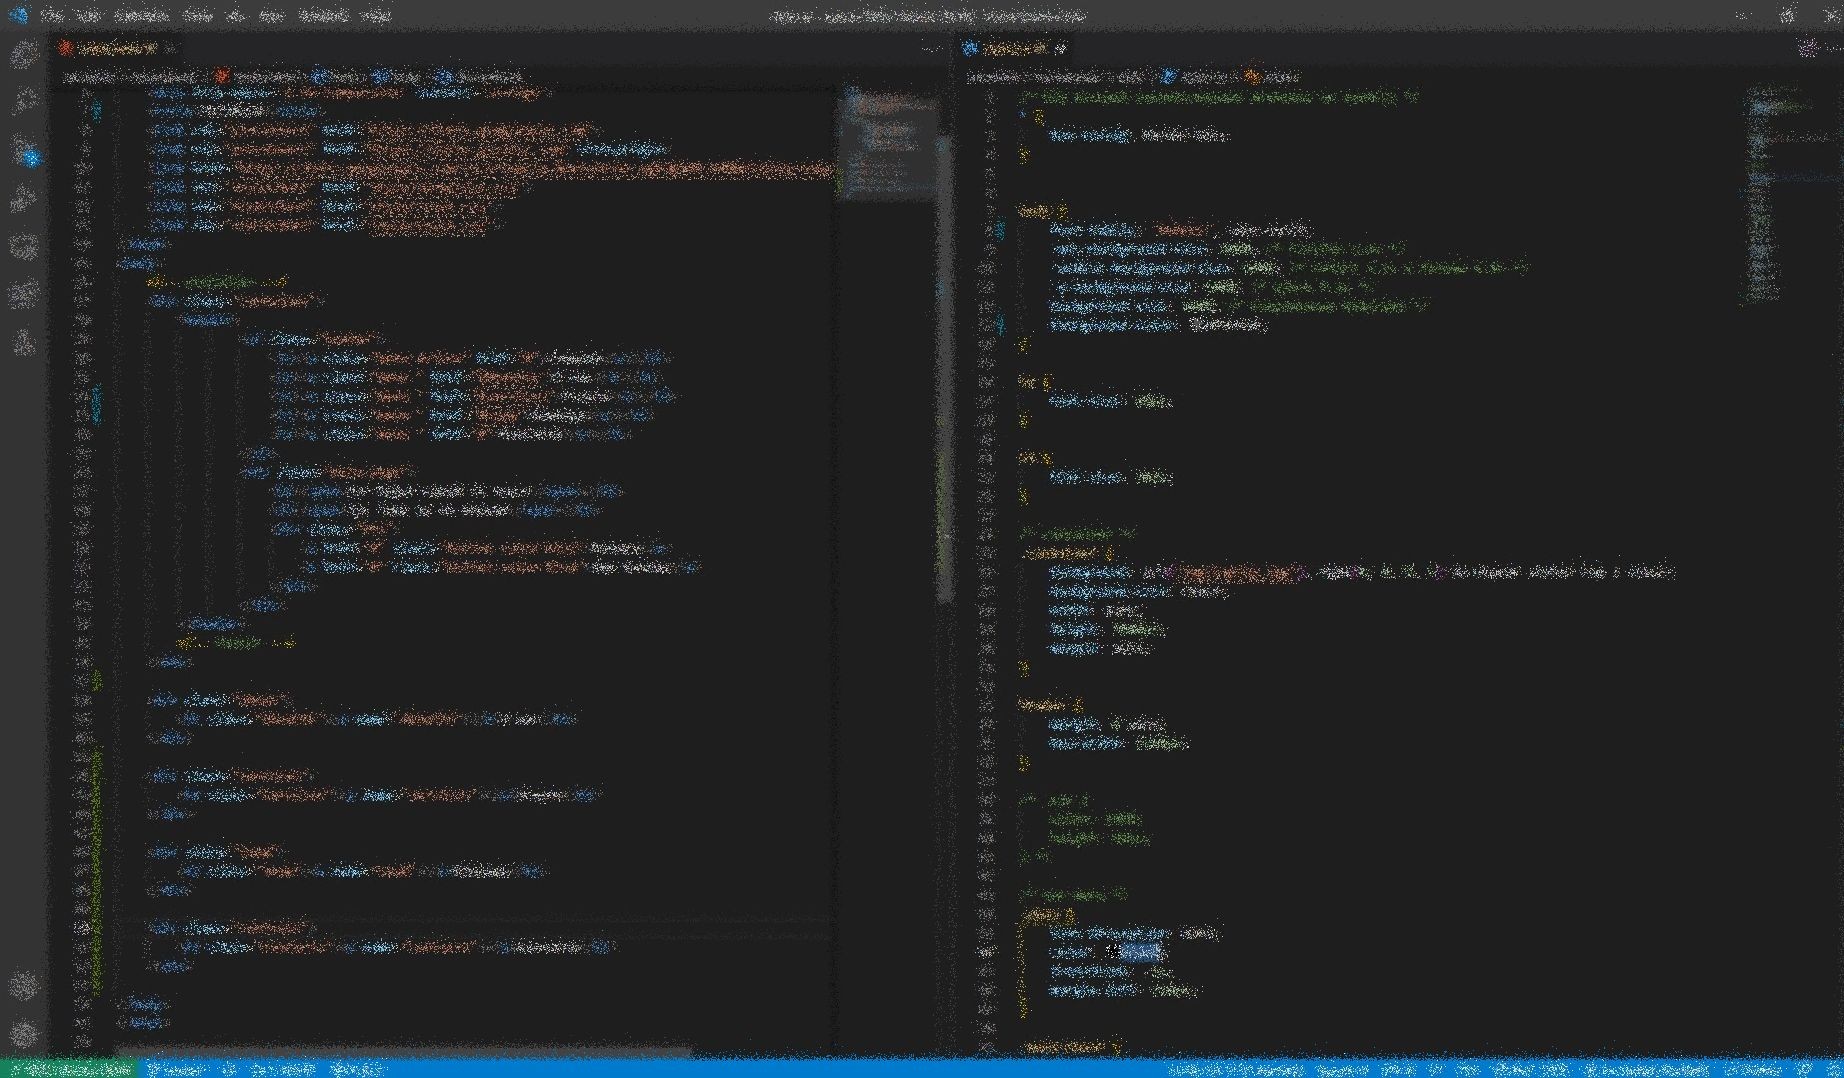
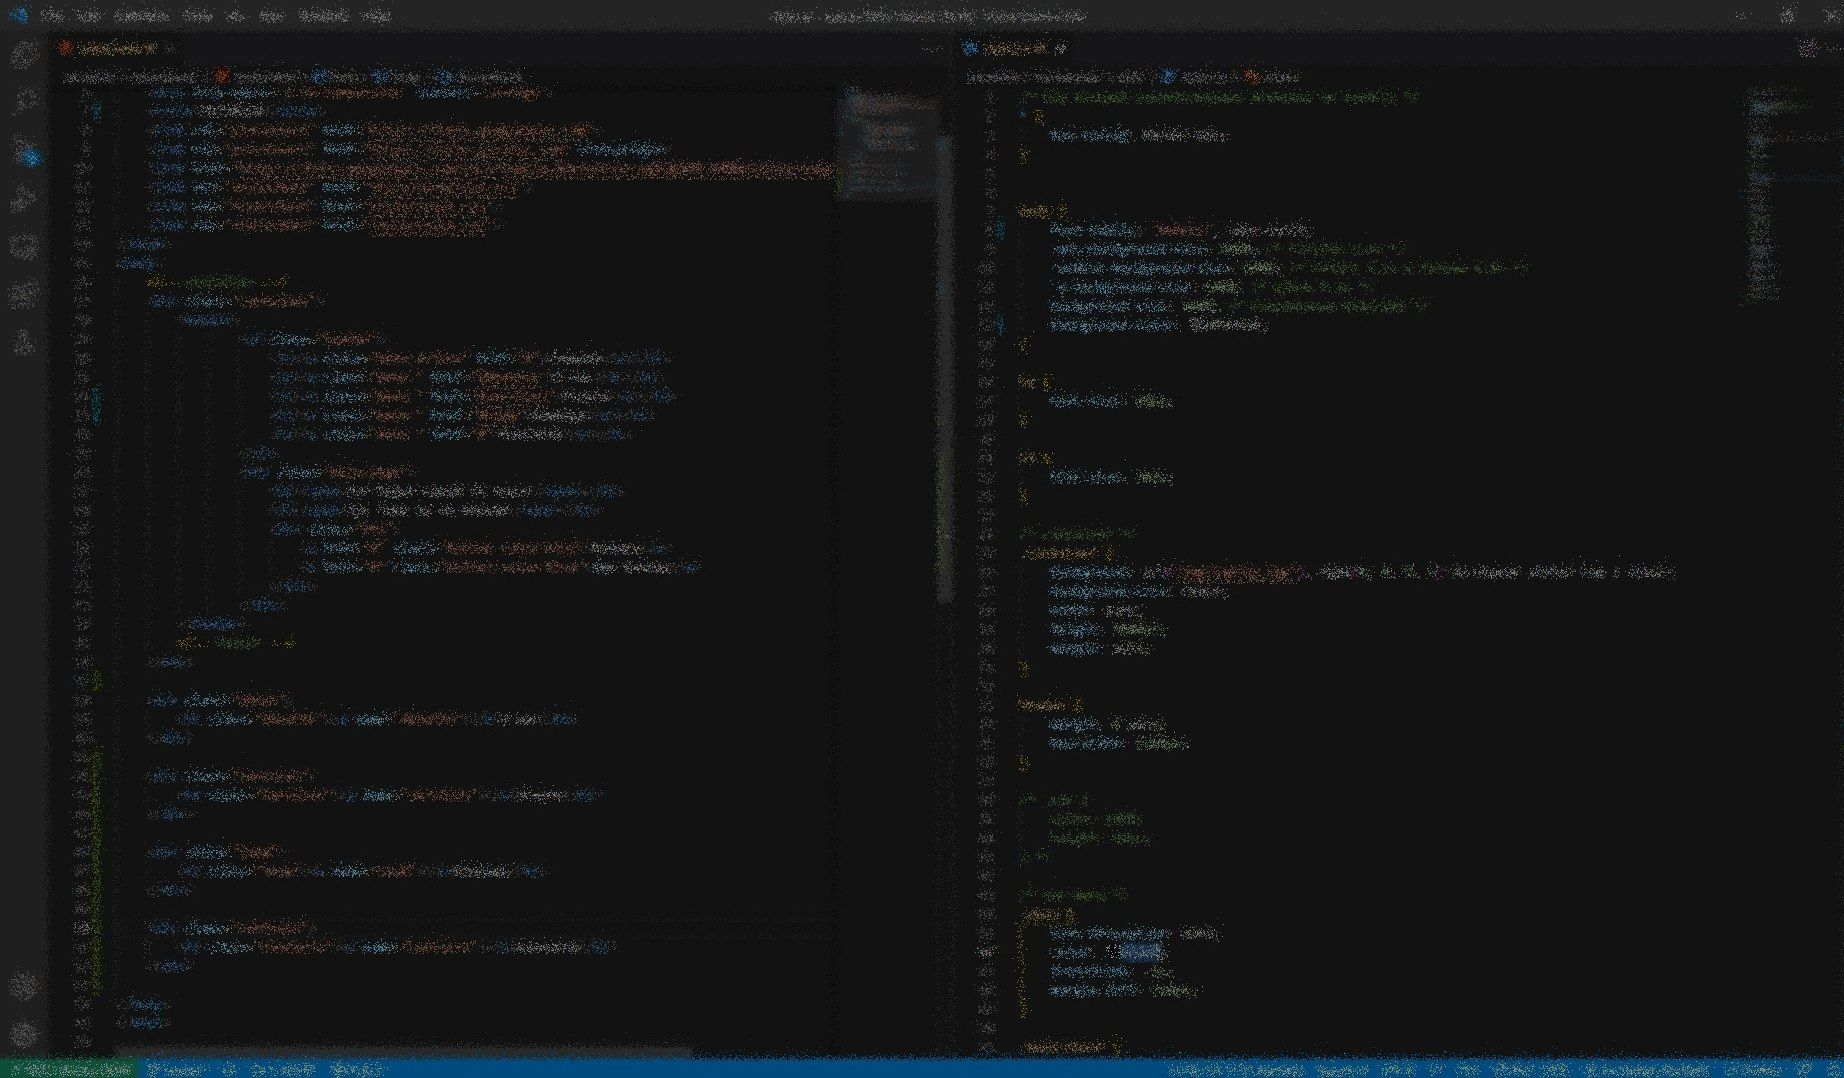
tried w pics

diff --git a/style/style.css b/style/style.css
@@ -23,7 +23,7 @@ h3 {
 
 /* container */
 .container {
-    background: url("img/vscode0.jpg"), rgba(0, 0, 0, 5) no-repeat center top / cover;
+    background: url("img/vscode1.jpg"), rgba(0, 0, 0, 5) no-repeat center top / cover;
     background-size: cover;
     width: auto;
     height: 1000px;
@@ -43,7 +43,7 @@ header {
 /* nav menu */
 .menu {
 	text-decoration: none;
-	color: black;
+	color: white;
 	transition: .1s;
 	margin-left: 150px;
 }
@@ -86,7 +86,7 @@ header {
 }
 
 .color-btn1 {
-    background-color: #2ed3ae;
+    background-color: #56b62d;
     width: 154px;
     transition: .1s;
 }
